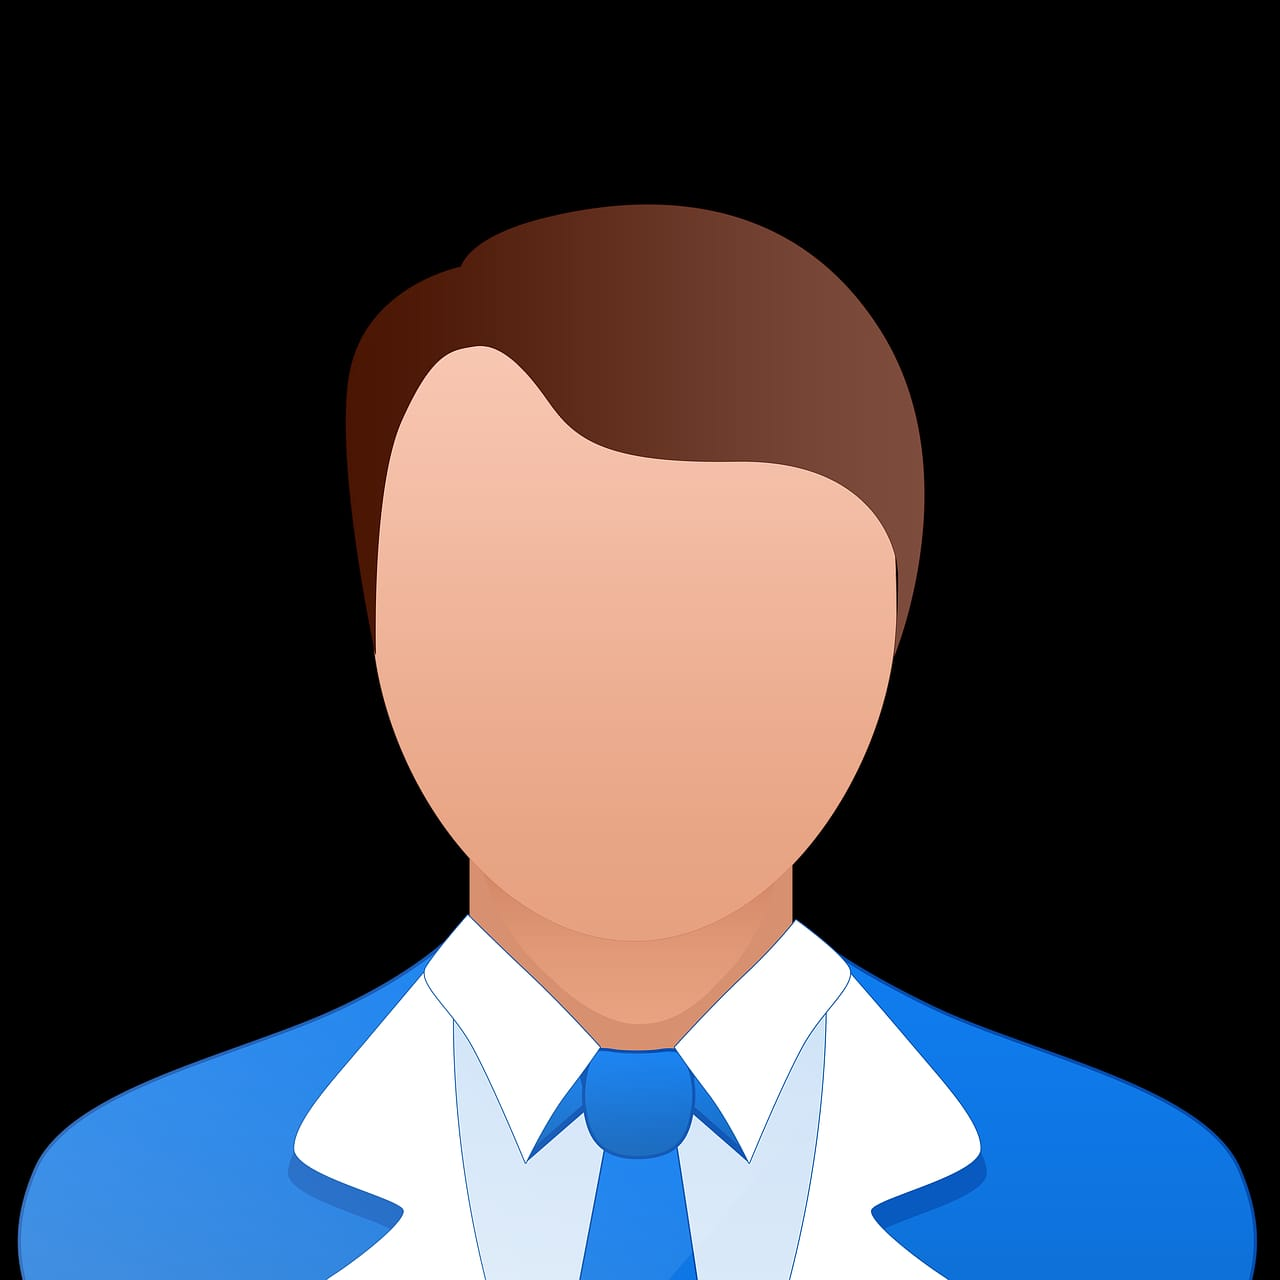
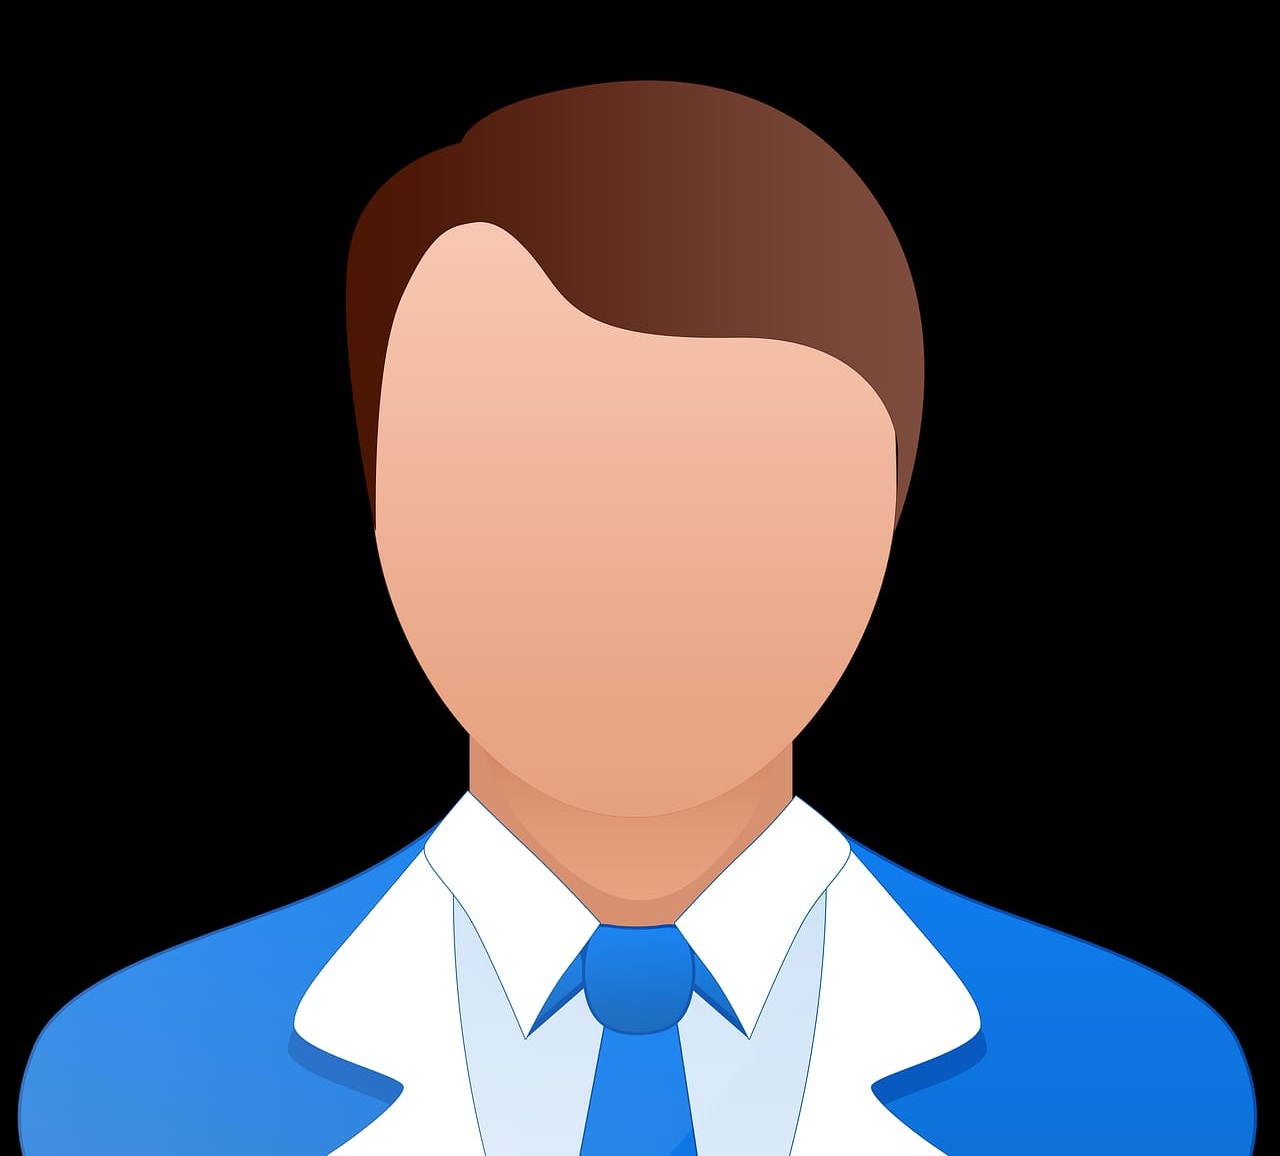
adding dummyImg

diff --git a/frontend/src/pages/Doctors.jsx b/frontend/src/pages/Doctors.jsx
@@ -4,7 +4,7 @@ import { BriefcaseMedical, GraduationCap } from "lucide-react";
 import Footer from "../components/common/Footer";
 import Navbar from "../components/common/Navbar";
 import LoadingImage from "../components/common/LoadingImage";
-import maleDoctorImg from "../assets/images/male dr staff.png";
+import maleDoctorImg from "../assets/images/dummyImg.jpeg";
 import drJaiswalImg from "../assets/images/Dr. Jaiswal.jpeg";
 import drPravinImg from "../assets/images/Dr. Pravin.jpeg";
 import drTriptiImg from "../assets/images/Dr. Tripti Sawlani.jpeg";
@@ -69,7 +69,7 @@ const DoctorCard = ({ doctor }) => {
             variants={cardVariants}
             whileHover={{ y: -6, scale: 1.02 }}
             transition={{ type: "spring", stiffness: 240, damping: 18 }}
-            className="group bg-white/90 border border-blue-100 rounded-2xl shadow-sm p-4 hover:shadow-lg transition-shadow duration-300 flex flex-col"
+            className="group w-full max-w-[320px] mx-auto bg-white/90 border border-blue-100 rounded-2xl shadow-sm p-4 hover:shadow-lg transition-shadow duration-300 flex flex-col"
         >
             <h3 className="text-base md:text-lg font-bold text-blue-800 text-center">
                 {doctor.name}
@@ -77,7 +77,7 @@ const DoctorCard = ({ doctor }) => {
             <LoadingImage
                 src={imgSrc}
                 alt={doctor.name}
-                className="mt-3 h-48 md:h-52 w-full rounded-xl overflow-hidden bg-blue-50"
+                className="mt-3 h-52 w-full rounded-xl overflow-hidden bg-blue-50"
                 imgClassName="w-full h-full object-cover object-top transition-transform duration-500 group-hover:scale-105"
                 onError={() => setImgSrc(dummyDoctorImg)}
             />
@@ -146,4 +146,3 @@ const Doctors = () => {
 };
 
 export default Doctors;
-
